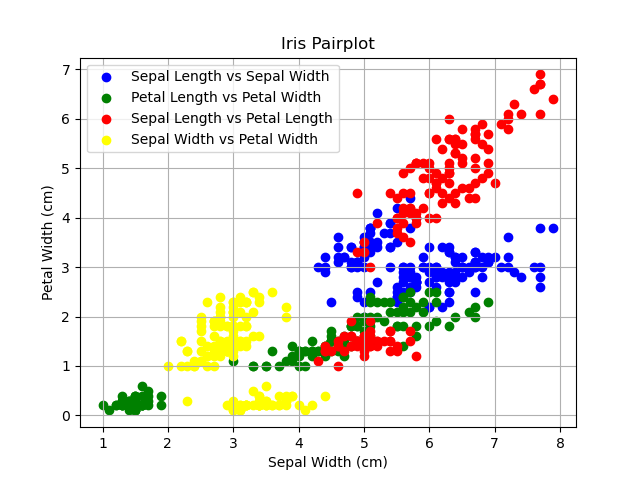
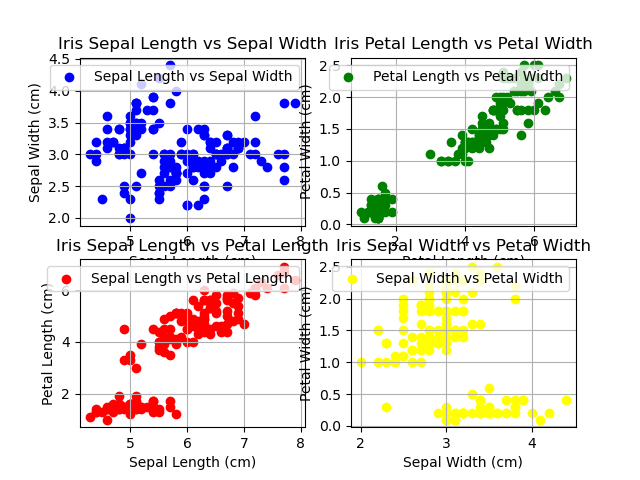
Attempt at pairplot using a function, not too nice yet

Changed region(s): [[0.0312, 0.0625, 0.9375, 1.0], [0.8125, 0.6562, 0.8438, 0.7188]]

diff --git a/analysis.py b/analysis.py
@@ -161,43 +161,51 @@ def create_pairplot(df):
     #The stateless approach to creating a pairplot as recommended by real python website
     #https://realpython.com/python-matplotlib-guide/
     #https://realpython.com/python-histograms/
-    fig, ax = plt.subplots()
+    fig, ax = plt.subplots(2,2)
 
     #Create the pairplot for the dataset
-    ax.scatter(df['sepal_length'], df['sepal_width'], label="Sepal Length vs Sepal Width", facecolor="blue")
-    ax.scatter(df['petal_length'], df['petal_width'], label="Petal Length vs Petal Width", facecolor="green")
-    ax.scatter(df['sepal_length'], df['petal_length'], label="Sepal Length vs Petal Length", facecolor="red")
-    ax.scatter(df['sepal_width'], df['petal_width'], label="Sepal Width vs Petal Width", facecolor="yellow")
+
+    ax[0,0].scatter(df["sepal_length"], df["sepal_width"], label="Sepal Length vs Sepal Width", facecolor="blue")
+    ax[0,1].scatter(df["petal_length"], df["petal_width"], label="Petal Length vs Petal Width", facecolor="green")
+    ax[1,0].scatter(df["sepal_length"], df["petal_length"], label="Sepal Length vs Petal Length", facecolor="red")
+    ax[1,1].scatter(df["sepal_width"], df["petal_width"], label="Sepal Width vs Petal Width", facecolor="yellow")
 
     #Set the x and y axis labels
-    ax.set_xlabel("Sepal Length (cm)")
-    ax.set_ylabel("Sepal Width (cm)")
-    ax.set_xlabel("Petal Length (cm)")
-    ax.set_ylabel("Petal Width (cm)")
-    ax.set_xlabel("Sepal Length (cm)")
-    ax.set_ylabel("Petal Length (cm)")
-    ax.set_xlabel("Sepal Width (cm)")
-    ax.set_ylabel("Petal Width (cm)")
+    ax[0,0].set_xlabel("Sepal Length (cm)")
+    ax[0,0].set_ylabel("Sepal Width (cm)")
+    ax[0,1].set_xlabel("Petal Length (cm)")
+    ax[0,1].set_ylabel("Petal Width (cm)")
+    ax[1,0].set_xlabel("Sepal Length (cm)")
+    ax[1,0].set_ylabel("Petal Length (cm)")
+    ax[1,1].set_xlabel("Sepal Width (cm)")
+    ax[1,1].set_ylabel("Petal Width (cm)")
+
 
     #Add a grid
-    ax.grid()
+    ax[0,0].grid()
+    ax[0,1].grid()
+    ax[1,0].grid()
+    ax[1,1].grid()
 
     #Add a title
-    ax.set_title("Iris Pairplot")
+    ax[0,0].set_title("Iris Sepal Length vs Sepal Width")
+    ax[0,1].set_title("Iris Petal Length vs Petal Width")
+    ax[1,0].set_title("Iris Sepal Length vs Petal Length")
+    ax[1,1].set_title("Iris Sepal Width vs Petal Width")
 
     #Add a legend
-    ax.legend()
+    ax[0,0].legend()
+    ax[0,1].legend()
+    ax[1,0].legend()
+    ax[1,1].legend()
 
     #Save the plot as a .png file
     plt.savefig("pairplot.png")
-
-
+   
 
 #Main program
 #Call the function to create histograms for each variable.......May be a more efficient way to do this.....come back to it later.
 #(Look to see if you can call the function in a loop or something.....)
-
-
 
 create_summary(df, FILENAME)
 create_histogram(df, "sepal_length")
@@ -220,16 +228,4 @@ create_pairplot(df)
 
 #Have come across the above named plots and matrices but not sure how to use them yet, or what they are for. Will look into them further.
 
-
-
-
-
-
-
-
-
-
-
-
-
-
+#References:
